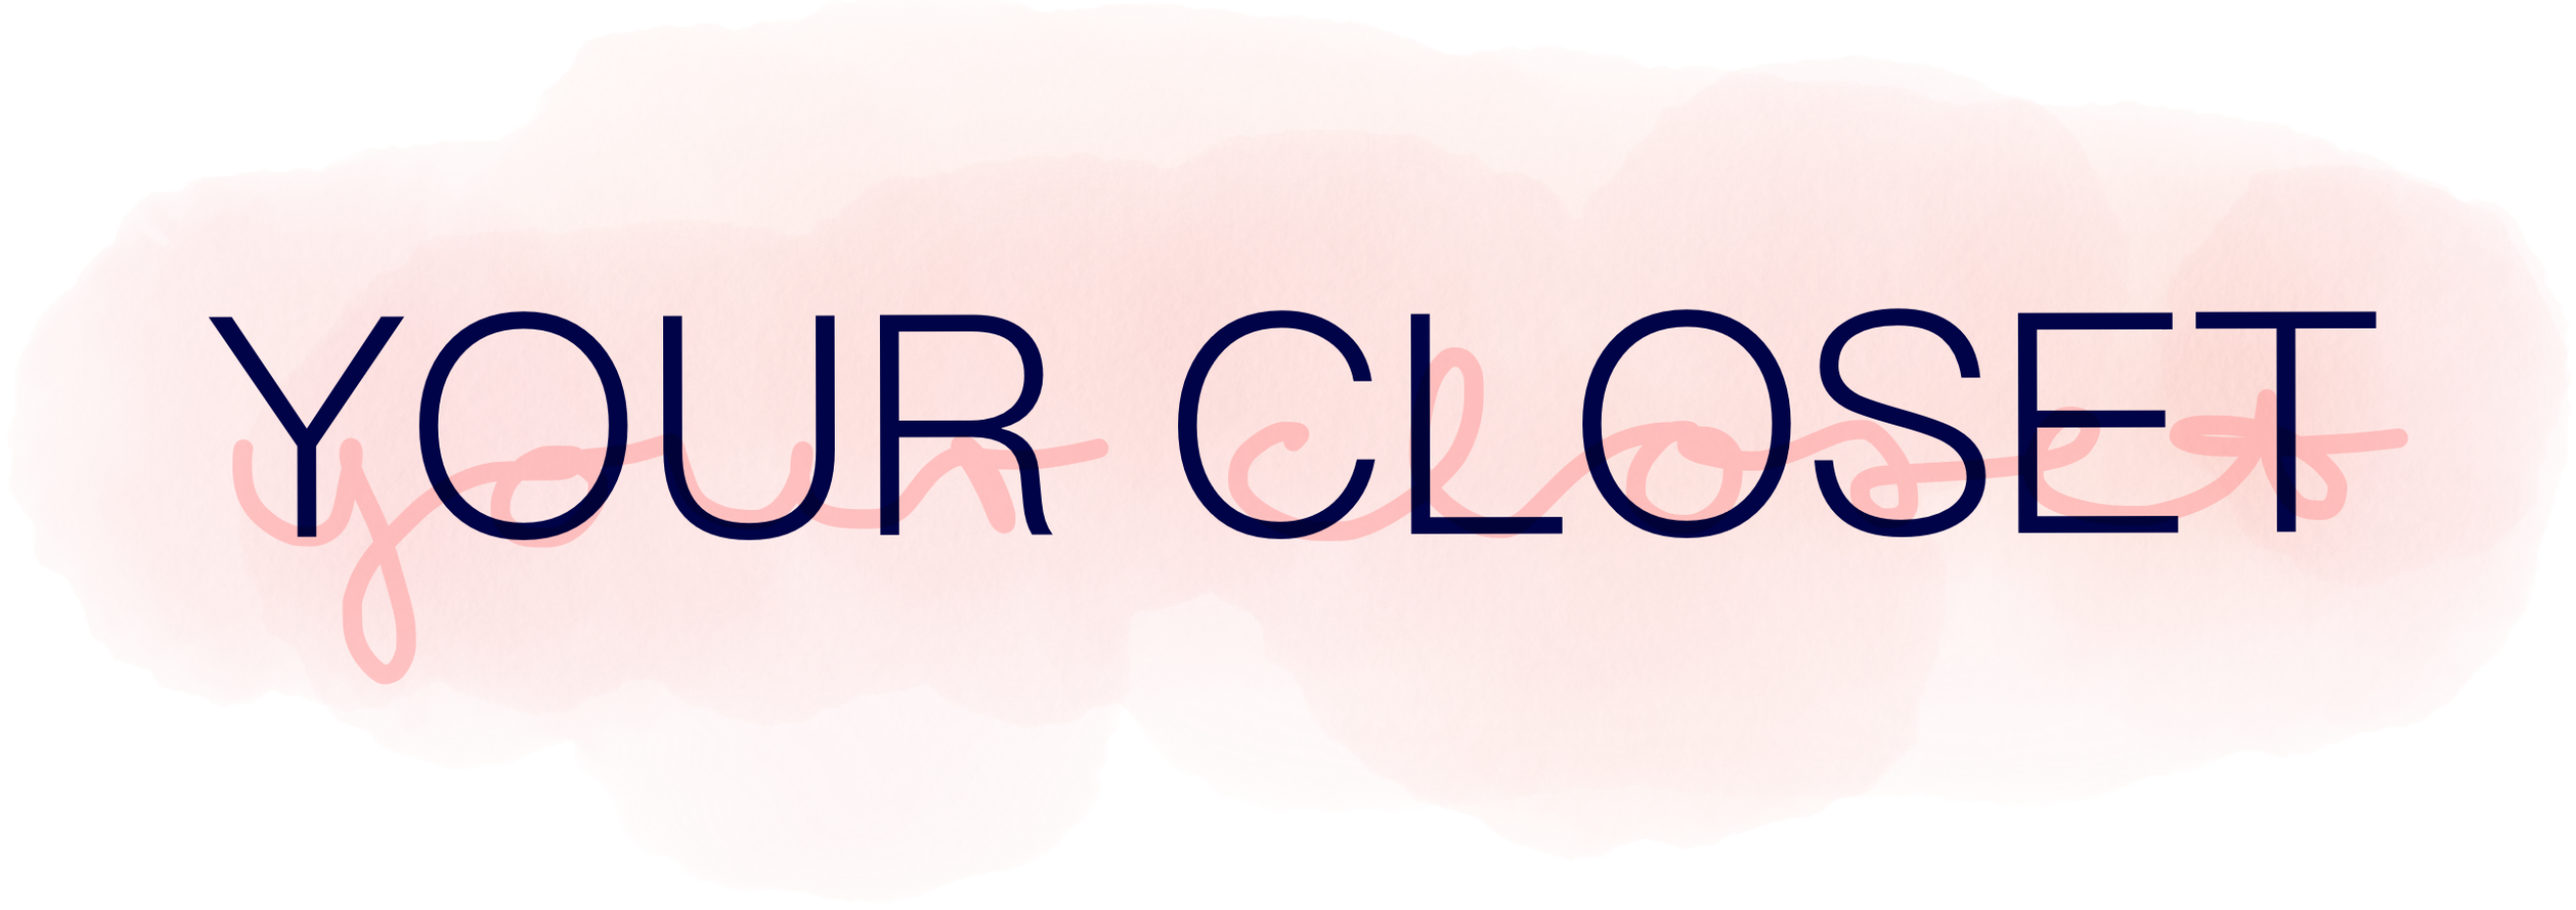
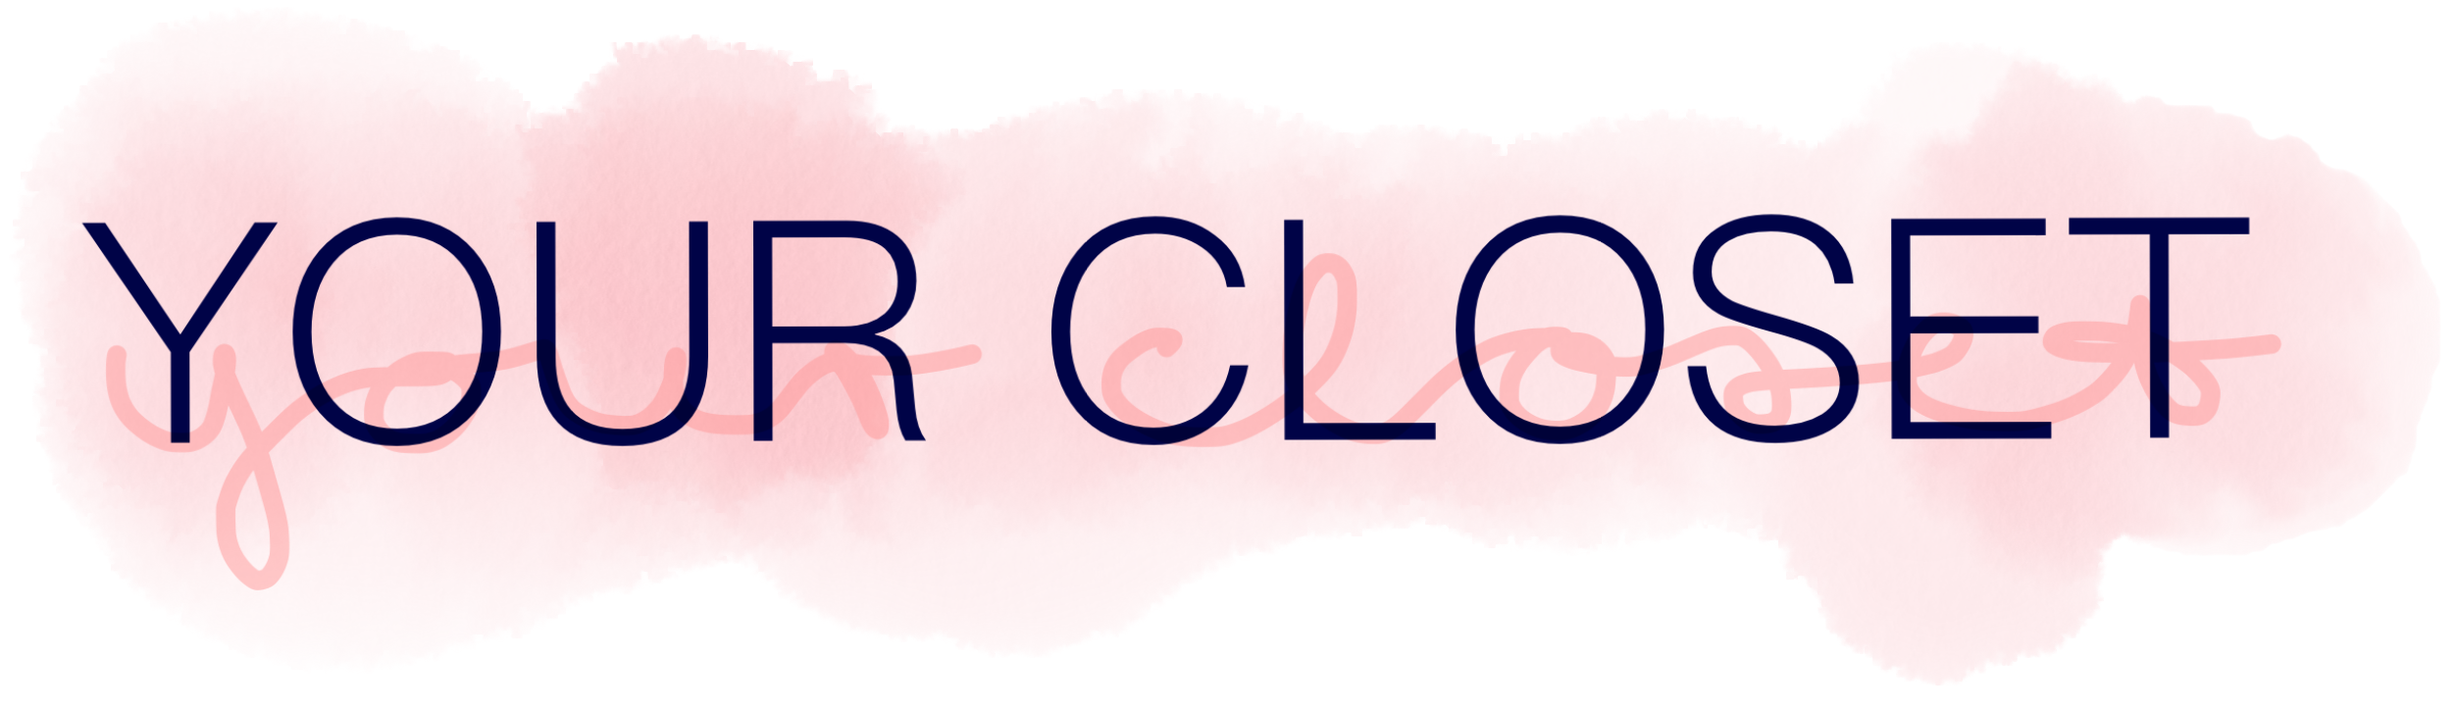
Hintergrund, Layout etc
...

Changed region(s): [[0.0311, 0.1214, 0.9341, 0.8497], [0.0311, 0.1517, 0.1246, 0.2124]]

diff --git a/src/index.html b/src/index.html
@@ -11,8 +11,8 @@
       <section id=app>
         <header>
           <div class="logo">
-            <img src="YourCloset_Header.png" alt="" id="YourCloset_Header">
-                <hr>
+            <a  href="/uebersicht" navigo><img src="YourCloset_Header.png" alt="" id="YourCloset_Header">  </a>
+
         </header>
         <main>
         </main>
@@ -23,7 +23,7 @@
 
         </header>
         <main>
-          <div id="hi">
+          <div id="willkommenText">
             Herzlich Willkommen bei Your Closet!
 
           </div>
@@ -53,7 +53,6 @@
                 <h1>Übersicht</h1>
 
 
-                  <hr>
 
               </div>
             </header>
@@ -118,7 +117,7 @@
             <div class="headerIndividuell">
               <h1>Hinzufügen</h1>
                 <a href="/uebersicht" data-navigo>
-                <hr>
+
             </div>
           </header>
           <br />

diff --git a/src/startpage/startpage.css b/src/startpage/startpage.css
@@ -20,7 +20,12 @@
 }
 
 #uebersichtButton{
-  background-image: url(Button_Hintergrund.png);
+  background-color: white;
+  background-image: url(buttonHintergrund.png);
+  background-size: 99%;
+  border: none;
+  width: 5vw;
+  height: 2vw;
   animation: uebersichtButtonAnimation 1s ease-in-out both 0.8s;
 }
 
@@ -35,7 +40,7 @@
   }
 
 }
-#hi {
+#willkommenText {
   text-align: center;
     font-size: 3vw%;
   animation: textwelle 1s ease-in-out both 0.8s;

diff --git a/src/app.css b/src/app.css
@@ -3,3 +3,10 @@
   margin-left: 35vw;
 
 }
+html{
+
+
+  background-image: url(background.png);
+    background-size: 100%;
+
+}
